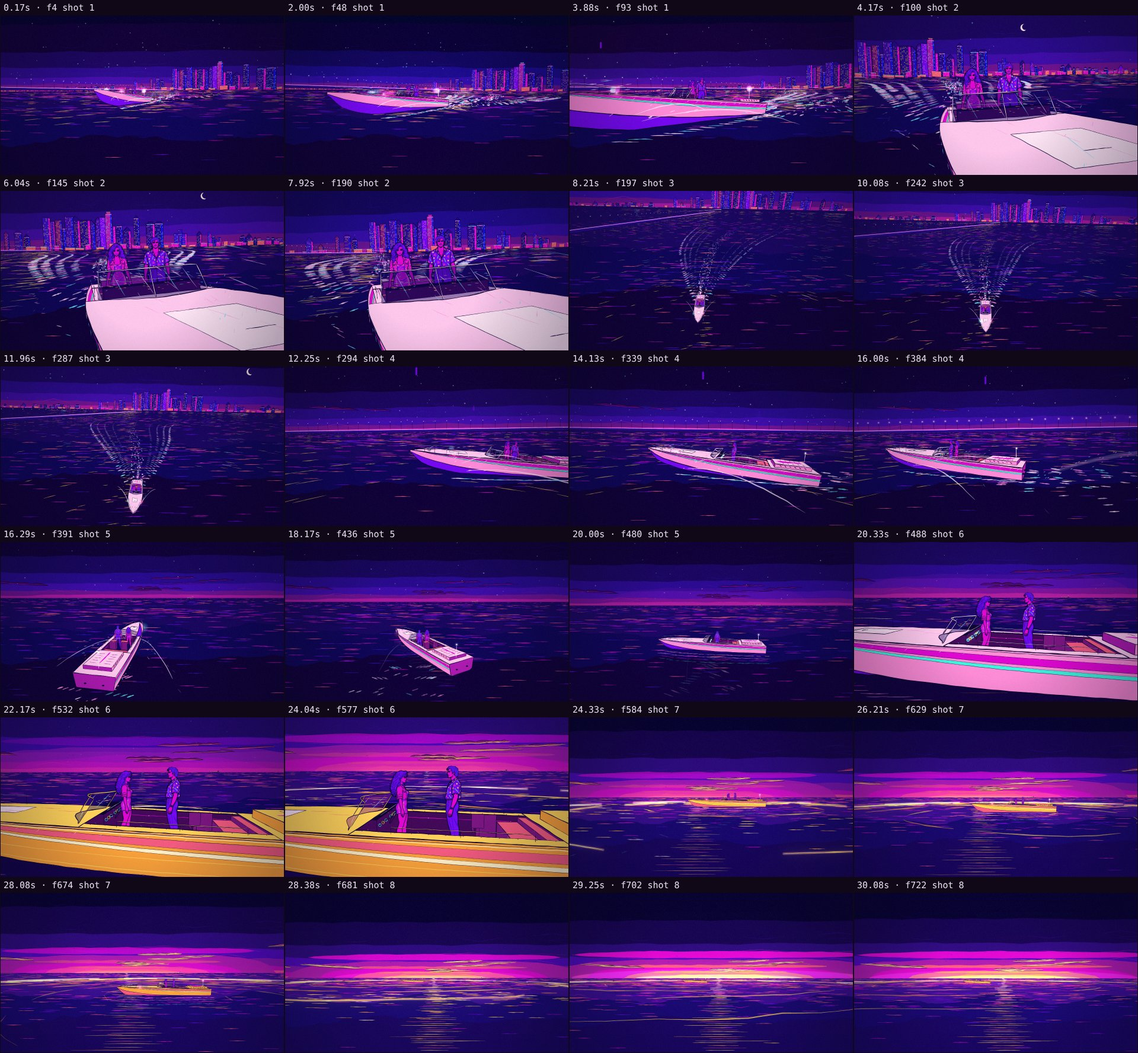
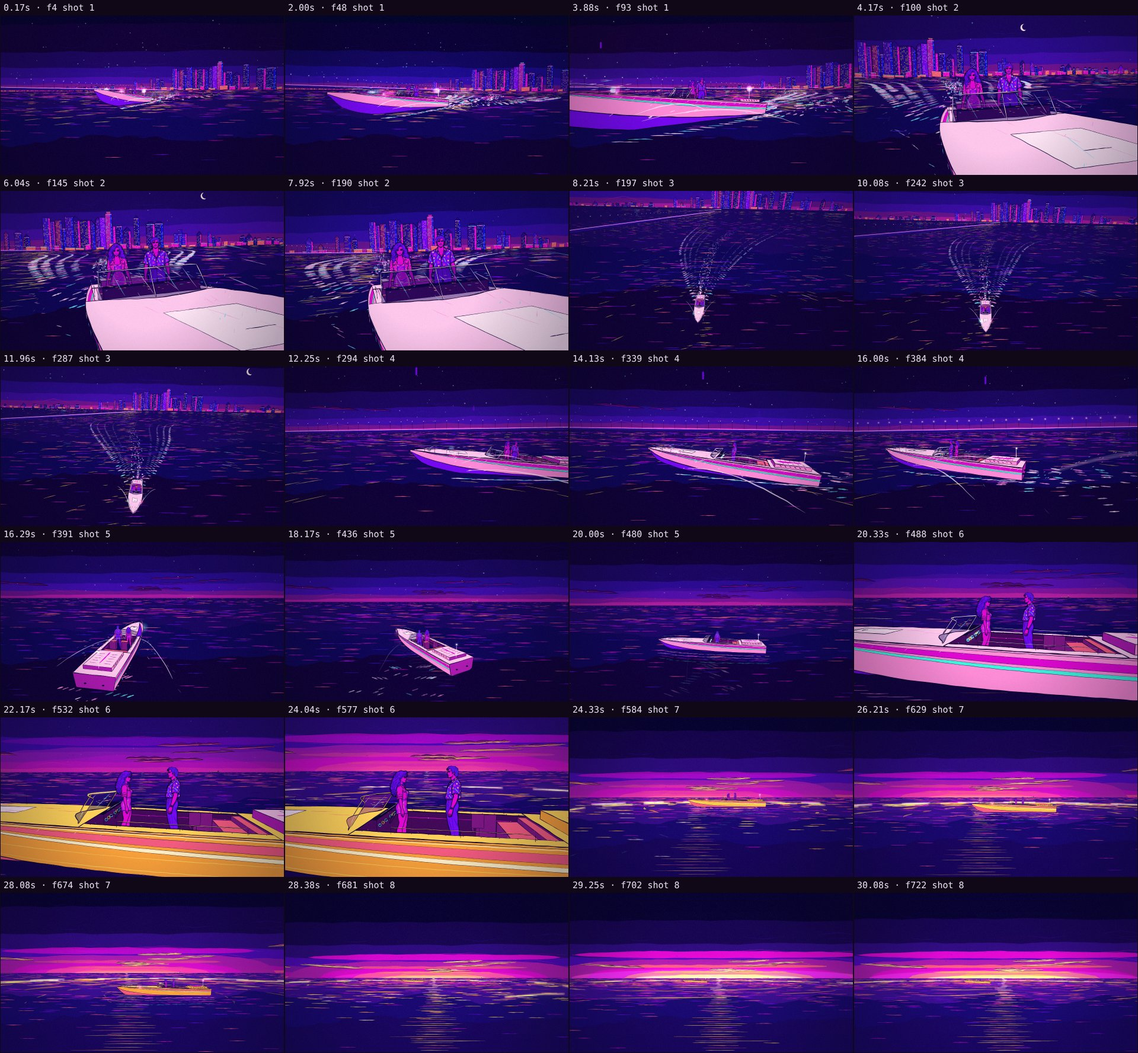
review(run-away-with-me): round 6 · opening and boat, second pass: wet street, Deco detail, a softer crowd; the windscreen, gold as ink, a banded dawn
Claude-Session: https://claude.ai/code/session_01UB8EogEzhgXRwMq5QwM1xL

diff --git a/sandbox/2026-11-24-run-away-with-me/set/clouds-city.js b/sandbox/2026-11-24-run-away-with-me/set/clouds-city.js
@@ -44,7 +44,12 @@ const CloudsCity = (() => {
         const zs = [[LAND.z0, STREETS[0][0]]]; for (let i = 0; i + 1 < STREETS.length; i++) zs.push([STREETS[i][1], STREETS[i + 1][0]]); zs.push([STREETS[STREETS.length - 1][1], LAND.z1]);
         const pads = []; for (const [xa, xb] of xs) for (const [za, zb] of zs) pads.push({ xa, xb, za, zb });
         let ni = 0;
-        const add = (b) => { b.seed = B.length * 7 + 11; b.lit = 0.25 + 0.3 * H(b.seed, 1, 0); B.push(b); return b; };
+        const add = (b) => {
+            b.seed = B.length * 7 + 11; b.lit = 0.25 + 0.3 * H(b.seed, 1, 0);
+            b.v = b.seed % 4; b.style = b.kind === 'deco' || H(b.seed, 2, 0) < 0.45 ? 'deco' : 'plain'; b.uOff = (b.seed % 5) * 3.4;
+            if (b.kind !== 'diner' && b.kind !== 'laundry' && b.kind !== 'step') { const r = H(b.seed, 3, 0); b.tank = r < 0.22; b.antenna = r > 0.85; b.roofSign = H(b.seed, 8, 0) < (b.kind === 'tower' ? 0.3 : 0.05) ? Math.floor(H(b.seed, 9, 0) * 3) : -1; }
+            B.push(b); return b;
+        };
         for (const p of pads) {
             if (p.xb === -6) {
                 // the Ocean Drive block: one row of hotels fronting the park, pools in the yards
@@ -85,6 +90,8 @@ const CloudsCity = (() => {
                     const ix = 0.8 + R() * 2, iz = 0.5 + R() * 1.5;
                     const b = add({ x0: ra + ix, x1: rb - ix, z0: z0 + iz, z1: z1 - iz - (yard ? 9 : 0), h: tower ? 28 + R() * 45 : 6 + R() * 8, kind: tower ? 'tower' : 'block', wall: WALL[Math.floor(R() * WALL.length)], roof: ROOF[Math.floor(R() * ROOF.length)] });
                     if (b.z1 - b.z0 < 5) { b.z1 = z1 - iz; }
+                    // a stepped top (an Art Deco set-back) on a quarter of the low blocks
+                    if (!tower && b.h > 8 && R() < 0.28) { const wx = (b.x1 - b.x0) * 0.25, wz = (b.z1 - b.z0) * 0.25; add({ x0: b.x0 + wx, x1: b.x1 - wx, z0: b.z0 + wz, z1: b.z1 - wz, base: b.h, h: b.h + 2.4 + R() * 2, kind: 'step', wall: b.wall, roof: b.roof }); b.stepped = true; }
                     if (R() < 0.22) b.tube = TUBE[Math.floor(R() * TUBE.length)];
                     if (tower && R() < 0.5) pools.push({ x0: b.x0 + 3, x1: Math.min(b.x1 - 3, b.x0 + 14), z0: b.z0 + 3, z1: Math.min(b.z1 - 3, b.z0 + 9), y: b.h + 0.05, seed: b.seed });
                     if (yard) { pools.push({ x0: b.x0 + 2, x1: Math.min(b.x1 - 2, b.x0 + 12), z0: b.z1 + 2, z1: b.z1 + 7, seed: b.seed }); palms.push({ x: b.x1 - 2, z: b.z1 + 4.5, seed: b.seed }); }
@@ -95,7 +102,20 @@ const CloudsCity = (() => {
         // Washington's sidewalks
         for (let z = LAND.z0 + 20; z < LAND.z1 - 20; z += 13) { palms.push({ x: 11.5 + (R() - 0.5) * 0.8, z: z + (R() - 0.5) * 3, seed: Math.round(z * 3) }); if (R() < 0.7) palms.push({ x: 20 + R() * 40, z: z + R() * 10, seed: Math.round(z * 5) + 1 }); }
         for (const [c, w] of [[-75, 16], [-185, 18]]) for (let z = LAND.z0 + 15; z < LAND.z1; z += 22) for (const sd of [-1, 1]) { const zz = z + (sd > 0 ? 11 : 0); if (STREETS.some(([a, b]) => zz > a - 4 && zz < b + 4)) continue; if (c === -185 && sd < 0 && zz > SHOPS.diner[0] - 6 && zz < SHOPS.laundry[1] + 6) continue; palms.push({ x: c + sd * (w / 2 + 1.6), z: zz, seed: Math.round(zz * 7 + c) }); }
-        PLAN = { B, palms, pools, parked, pads };
+        // the hotel north of theirs stays low (the view from their roof)
+        for (const b of B) if (b.kind === 'deco' && b.z0 > HOTEL.z1 - 1 && b.z0 < HOTEL.z1 + 40) b.h = Math.min(b.h, 10.5);
+        // cars parked along the park-side kerb, away from where the camera follows theirs
+        for (let z = LAND.z0 + 10; z < LAND.z1 - 10; z += 7 + R() * 5) if ((z < 120 || z > 275) && R() < 0.45) parked.push({ x: 4.75, z, dir: 1, col: [P.violet, P.royal, P.plum, P.indigo][Math.floor(R() * 4)] });
+        // a car at the kerb outside the laundromat
+        parked.push({ x: -192.4, z: 141, dir: 1, col: P.royal });
+        // people walking: Ocean Drive's two sidewalks, the park's walkway, Washington Avenue
+        const walkers = [];
+        for (let i = 0; i < 60; i++) {
+            const side = R(), x = side < 0.4 ? -8.2 + R() * 1.2 : side < 0.75 ? 6.9 + R() * 1.2 : 36 + R() * 4, z0 = -150 + R() * 650;
+            walkers.push({ x, z0, dir: R() < 0.5 ? 1 : -1, v: 1.1 + R() * 0.5, seed: 300 + i * 7, shirt: ['#3a0c70', '#5a1060', '#2a1a80', '#4a0a50', '#1e0a5a'][i % 5], rim: i % 3 ? P.cyan : P.pink, walk: side >= 0.75 });
+        }
+        for (let i = 0; i < 14; i++) walkers.push({ x: R() < 0.5 ? -195.6 : -174.8, z0: 80 + R() * 90, dir: R() < 0.5 ? 1 : -1, v: 1.0 + R() * 0.4, seed: 900 + i * 7, shirt: ['#3a0c70', '#5a1060', '#2a1a80'][i % 3], rim: i % 2 ? P.pink : P.cyan });
+        PLAN = { B, palms, pools, parked, pads, walkers };
         return PLAN;
     }
 
@@ -275,21 +295,31 @@ const CloudsCity = (() => {
 
     // --- the buildings -------------------------------------------------------------------------------
     function building(g, L, cam, b, T, d, fx, env) {
-        const { x0, x1, z0, z1, h } = b, c = cam.pos;
-        const s = cam.f / Math.max(1, dist(cam, (x0 + x1) / 2, h / 2, (z0 + z1) / 2));
+        const { x0, x1, z0, z1, h } = b, c = cam.pos, y0 = b.base ?? 0;
+        const s = cam.f / Math.max(1, dist(cam, (x0 + x1) / 2, (y0 + h) / 2, (z0 + z1) / 2));
         const fine = s > 2.2, jit = fine ? 0.5 : 0, w = fine ? lw(s, 0.035) : 0;
         const walls = [];
-        if (c[0] < x0) walls.push(['W', [[x0, 0, z1], [x0, 0, z0], [x0, h, z0], [x0, h, z1]], 0.55]);
-        if (c[0] > x1) walls.push(['E', [[x1, 0, z0], [x1, 0, z1], [x1, h, z1], [x1, h, z0]], 0.9]);
-        if (c[2] < z0) walls.push(['S', [[x0, 0, z0], [x1, 0, z0], [x1, h, z0], [x0, h, z0]], 0.75]);
-        if (c[2] > z1) walls.push(['N', [[x1, 0, z1], [x0, 0, z1], [x0, h, z1], [x1, h, z1]], 0.65]);
+        if (c[0] < x0) walls.push(['W', [[x0, y0, z1], [x0, y0, z0], [x0, h, z0], [x0, h, z1]], 0.55]);
+        if (c[0] > x1) walls.push(['E', [[x1, y0, z0], [x1, y0, z1], [x1, h, z1], [x1, h, z0]], 0.9]);
+        if (c[2] < z0) walls.push(['S', [[x0, y0, z0], [x1, y0, z0], [x1, h, z0], [x0, h, z0]], 0.75]);
+        if (c[2] > z1) walls.push(['N', [[x1, y0, z1], [x0, y0, z1], [x0, h, z1], [x1, h, z1]], 0.65]);
         for (const [face, pts, k] of walls) {
             const q = quad(cam, pts); if (!q) continue;
             const front = face === 'E' && (b.kind === 'deco' || b.kind === 'diner' || b.kind === 'laundry');
             const col = front ? b.wall : css(mix(b.wall, '#04022e', 1 - k));
-            Ink.shape(g, q, col, { w, seed: b.seed * 5 + face.charCodeAt(0), d, jit });
-            if (front && s > 5) facade(g, L, cam, b, T, d, fx, s);
-            else windows(g, L, cam, b, face, pts, s, d, fx);
+            const seed = b.seed * 5 + face.charCodeAt(0);
+            if (front && s > 5) { Ink.shape(g, q, col, { w, seed, d, jit }); facade(g, L, cam, b, T, d, fx, s); }
+            else {
+                // a far wall: its windows and texture from the cached patterns, laid through the camera
+                const wm = (pts[0][0] + pts[2][0]) / 2, wz = (pts[0][2] + pts[2][2]) / 2, ws = cam.f / Math.max(1, dist(cam, wm, (y0 + h) / 2, wz));
+                const A = cam.p(pts[0]), D = cam.p(pts[3]), C3 = cam.p(pts[2]), B1 = cam.p(pts[1]);
+                const len = Math.hypot(pts[1][0] - pts[0][0], pts[1][2] - pts[0][2]);
+                if (ws < 9 && A[2] > 2 && D[2] > 2 && C3[2] > 2 && B1[2] > 2) {
+                    Ink.shape(g, q, col, { w: 0, seed, d, jit: 0 });
+                    if (ws > 0.5) CloudsLife.wall(g, L, q, [A[0], A[1]], [D[0], D[1]], [C3[0], C3[1]], len, h - y0, b.v, b.style, b.uOff + (face === 'N' || face === 'W' ? 6.8 : 0), ws);
+                    if (w) Ink.brush(g, q, { w, seed, d, closed: true });
+                } else { Ink.shape(g, q, col, { w, seed, d, jit }); windows(g, L, cam, b, face, pts, s, d, fx); }
+            }
             // the light the street throws on the wall's foot: strokes of the lamps' gold
             if (s > 6 && !front) { const A = cam.p(pts[0]), B = cam.p(pts[1]); Ink.hatch(g, [A[0], A[1]], [B[0], B[1]], { count: 4, len: cap(0.6 * s, 4, 30), w: cap(0.05 * s, 1, 3), col: face === 'E' ? P.pink : P.salmon, seed: b.seed + face.charCodeAt(0), d, n: [0, -1], ang: 0.3 }); }
         }
@@ -322,16 +352,25 @@ const CloudsCity = (() => {
         const [p0, p1] = pts, len = Math.hypot(p1[0] - p0[0], p1[2] - p0[2]); if (len < 3) return;
         const ux = (p1[0] - p0[0]) / len, uz = (p1[2] - p0[2]) / len, off = 0.04;
         const nx = face === 'E' ? off : face === 'W' ? -off : 0, nz = face === 'N' ? off : face === 'S' ? -off : 0;
-        const floors = Math.max(1, Math.floor((b.h - 0.8) / 3.2)), cols = Math.max(1, Math.floor(len / 3.4)), cw = len / cols;
+        const y0 = b.base ?? 0, floors = Math.max(1, Math.floor((b.h - y0 - 0.8) / 3.2)), cols = Math.max(1, Math.floor(len / 3.4)), cw = len / cols;
+        const k0 = Math.round((b.uOff + (face === 'N' || face === 'W' ? 6.8 : 0)) / 3.4);
         for (let f = 0; f < floors; f++) for (let k = 0; k < cols; k++) {
-            const r = H(b.seed, f * 37 + k + face.charCodeAt(0) * 131, 0), lit = r < b.lit;
+            const pn = CloudsLife.pane(b.v, (k + k0) % 16, f + Math.round(y0 / 3.2)), lit = pn.lit;
             if (!lit && s < 5) continue;
-            const ya = f * 3.2 + 1.1, yb = ya + 1.4, ua = k * cw + cw * 0.22, ub = ua + cw * 0.56;
+            const ya = y0 + f * 3.2 + 1.1, yb = ya + 1.4, ua = k * cw + cw * 0.22, ub = ua + cw * 0.56;
             const P4 = [[p0[0] + ux * ua + nx, ya, p0[2] + uz * ua + nz], [p0[0] + ux * ub + nx, ya, p0[2] + uz * ub + nz], [p0[0] + ux * ub + nx, yb, p0[2] + uz * ub + nz], [p0[0] + ux * ua + nx, yb, p0[2] + uz * ua + nz]];
             const q = quad(cam, P4); if (!q) continue;
-            const col = lit ? WARM[Math.floor(H(b.seed, f * 7 + k, 5) * WARM.length)] : '#120540';
+            const col = lit ? pn.col : '#120540';
             Ink.shape(g, q, col, { w: s > 14 ? lw(s, 0.02) : 0, seed: b.seed * 31 + f * 7 + k, d, jit: s > 14 ? 0.4 : 0, light: lit });
-            if (lit && s > 2) { L.save(); L.globalAlpha = 0.45; L.fillStyle = col; Neon.path(L, q); L.fill(); L.restore(); }
+            // a TV's blue flickers on the light layer, drawing by drawing
+            if (lit && s > 2) { L.save(); L.globalAlpha = pn.kind === 'tv' ? 0.25 + 0.5 * H(b.seed + k, f, d) : 0.45; L.fillStyle = col; Neon.path(L, q); L.fill(); L.restore(); }
+            if (lit && s > 9) {
+                const at = (u, v) => { const uu = ua + (ub - ua) * u, yy = ya + (yb - ya) * v; return cam.p([p0[0] + ux * uu + nx * 1.5, yy, p0[2] + uz * uu + nz * 1.5]); };
+                if (pn.kind === 'blinds') for (let j = 1; j < 5; j++) { const A = at(0, j / 5), Bb = at(1, j / 5); Ink.brush(g, [[A[0], A[1]], [Bb[0], Bb[1]]], { w: cap(0.04 * s, 1, 2.5), col: css(mix(col, '#2a0a50', 0.55)), seed: b.seed + f * 50 + k * 5 + j, d, taper: 0.1, wob: 0.3, light: true }); }
+                if (pn.kind === 'curtains') for (const [u0, u1] of [[0, 0.3], [0.7, 1]]) { const qq = [at(u0, 0), at(u1, 0), at(u1, 1), at(u0, 1)].map((p) => [p[0], p[1]]); Ink.shape(g, qq, (k + f) % 2 ? P.red : P.magenta, { w: lw(s, 0.015), seed: b.seed + f * 9 + k, d, jit: 0.3 }); }
+                if (pn.kind === 'figure') { const hc = at(0.5, 0.62), sh = at(0.5, 0.3), r = 0.17 * s; const hp = []; for (let i = 0; i < 9; i++) { const an = i / 9 * Math.PI * 2; hp.push([hc[0] + Math.cos(an) * r, hc[1] + Math.sin(an) * r * 1.15]); } Ink.shape(g, hp, '#2a0a50', { w: 0, seed: b.seed + f + k * 3, d, jit: 0.2 }); const bl = at(0.25, 0), br = at(0.75, 0); Ink.shape(g, [[bl[0], bl[1]], [sh[0] - r * 1.4, sh[1]], [sh[0] + r * 1.4, sh[1]], [br[0], br[1]]], '#2a0a50', { w: 0, seed: b.seed + f + k * 5, d, jit: 0.2 }); }
+                if (pn.kind === 'tv') { const qq = [at(0.3, 0.2), at(0.7, 0.2), at(0.7, 0.5), at(0.3, 0.5)].map((p) => [p[0], p[1]]); Ink.shape(g, qq, '#c8ecff', { w: 0, seed: b.seed + k, d, jit: 0.2, light: true }); }
+            }
             if (!lit && s > 14) { const A = cam.p(P4[3]), B = cam.p(P4[2]); Ink.brush(g, [[A[0], A[1] + 2], [B[0], B[1] + 2]], { w: cap(0.04 * s, 1, 2.5), col: P.violet, seed: b.seed + f * 3 + k, d, taper: 0.4, light: true }); }
         }
     }
@@ -348,10 +387,45 @@ const CloudsCity = (() => {
             const sideS = cam.pos[2] < cz - r ? quad(cam, [[cx - r, h, cz - r], [cx + r, h, cz - r], [cx + r, h + hh, cz - r], [cx - r, h + hh, cz - r]]) : null;
             const sideE = cam.pos[0] > cx + r ? quad(cam, [[cx + r, h, cz - r], [cx + r, h, cz + r], [cx + r, h + hh, cz + r], [cx + r, h + hh, cz - r]]) : null;
             const sideW = cam.pos[0] < cx - r ? quad(cam, [[cx - r, h, cz + r], [cx - r, h, cz - r], [cx - r, h + hh, cz - r], [cx - r, h + hh, cz + r]]) : null;
-            for (const q of [sideS, sideE, sideW]) if (q) Ink.shape(g, q, '#2a0c6e', { w: s > 3 ? lw(s, 0.04) : 0, seed: b.seed + i * 3, d, jit: 0.3 });
-            if (top) Ink.shape(g, top, '#5a2aa8', { w: s > 3 ? lw(s, 0.04) : 0, seed: b.seed + i * 3 + 1, d, jit: 0.3 });
+            if (s > 2.5) for (const q of [sideS, sideE, sideW]) if (q) Ink.shape(g, q, '#2a0c6e', { w: s > 3 ? lw(s, 0.04) : 0, seed: b.seed + i * 3, d, jit: 0.3 });
+            if (top) Ink.shape(g, top, '#5a2aa8', { w: s > 3 ? lw(s, 0.04) : 0, seed: b.seed + i * 3 + 1, d, jit: s > 3 ? 0.3 : 0 });
+            if (top && s > 4) { const cc = cam.p([cx, h + hh + 0.02, cz]), rr = r * 0.6 * cam.f / cc[2], an = T * 9 + i; Ink.brush(g, [[cc[0] - Math.cos(an) * rr, cc[1] - Math.sin(an) * rr * 0.6], [cc[0] + Math.cos(an) * rr, cc[1] + Math.sin(an) * rr * 0.6]], { w: cap(0.1 * s, 1, 4), seed: b.seed + i * 7, d, taper: 0.2 }); }
         }
+        // a water tank on legs
+        if (b.tank && !b.ours) tank(g, cam, x0 + 3, z1 - 3, h, 1.5, 2.4, b.seed, d, s);
+        // an antenna with its red light, blinking on the beat
+        if (b.antenna) { const a = cam.p([x1 - 2, h, z0 + 2]), t = cam.p([x1 - 2, h + 6, z0 + 2]); if (a[2] > 1) { Ink.brush(g, [[a[0], a[1]], [t[0], t[1]]], { w: cap(0.06 * s, 0.8, 3), seed: b.seed + 33, d, taper: 0.1 }); if (Math.floor(Song.beatAt(T) * 2) % 2 === 0) dot(g, L, t[0], t[1], cap(0.25 * s, 1, 4), P.red, 1); } }
+        // a lit sign standing on the roof: a cocktail glass, a palm or a star in neon tubes
+        if (b.roofSign >= 0) roofSign(g, L, cam, b, s, d, fx);
         for (const pool of build().pools) if (pool.y && pool.seed === b.seed) poolDraw(g, L, cam, pool, pool.y, d, { W: cam.W, H: cam.H });
+    }
+
+    function tank(g, cam, x, z, h, r, th, seed, d, s) {
+        const b0 = cam.p([x, h + 1.4, z]), t0 = cam.p([x, h + 1.4 + th, z]); if (b0[2] < 2) return;
+        const k = cam.f / b0[2], rw = r * k, el = cap((cam.pos[1] - h - 2) / Math.max(1, b0[2]), 0, 1);
+        if (s > 3) for (const dx of [-0.8, 0.8]) { const a = cam.p([x + dx, h, z + 0.6]), bb = cam.p([x + dx, h + 1.4, z + 0.6]); Ink.brush(g, [[a[0], a[1]], [bb[0], bb[1]]], { w: cap(0.08 * k, 1, 4), seed: seed + dx * 10, d, taper: 0.1 }); }
+        Ink.shape(g, [[b0[0] - rw, b0[1]], [t0[0] - rw, t0[1]], [t0[0] + rw, t0[1]], [b0[0] + rw, b0[1]]], '#4a1a8a', { w: s > 3 ? lw(k, 0.04) : 0, seed: seed + 41, d, jit: 0.3 });
+        const ry = rw * (0.15 + 0.85 * el), cap0 = []; for (let i = 0; i < 14; i++) { const an = i / 14 * Math.PI * 2; cap0.push([t0[0] + Math.cos(an) * rw, t0[1] + Math.sin(an) * ry]); }
+        Ink.shape(g, cap0, '#6a3ab0', { w: s > 3 ? lw(k, 0.04) : 0, seed: seed + 42, d, jit: 0.3 });
+        if (s > 3) for (const v of [0.3, 0.65]) { const yy = b0[1] + (t0[1] - b0[1]) * v; Ink.brush(g, [[b0[0] - rw, yy], [b0[0], yy + ry * 0.4], [b0[0] + rw, yy]], { w: cap(0.04 * k, 0.8, 2.5), seed: seed + v * 100, d, taper: 0.1 }); }
+        if (s > 3) Ink.brush(g, [[b0[0] + rw * 0.6, b0[1] - 2], [t0[0] + rw * 0.6, t0[1] + 2]], { w: cap(0.06 * k, 1, 3), col: P.pink, seed: seed + 43, d, taper: 0.3 });
+    }
+    const PICTO = [
+        [[[-0.5, 0.95], [0.5, 0.95], [0, 0.45], [-0.5, 0.95]], [[0, 0.45], [0, 0.15]], [[-0.28, 0.1], [0.28, 0.1]], [[0.18, 0.8], [0.32, 0.72], [0.22, 0.62], [0.12, 0.7], [0.18, 0.8]]],
+        [[[0.05, 0.08], [0.0, 0.4], [-0.08, 0.78]], [[-0.08, 0.78], [-0.5, 0.62]], [[-0.08, 0.78], [0.42, 0.7]], [[-0.08, 0.78], [-0.3, 0.98]], [[-0.08, 0.78], [0.25, 0.95]]],
+        [[[0, 0.98], [0.12, 0.62], [0.48, 0.6], [0.2, 0.4], [0.3, 0.05], [0, 0.26], [-0.3, 0.05], [-0.2, 0.4], [-0.48, 0.6], [-0.12, 0.62], [0, 0.98]]],
+    ];
+    function roofSign(g, L, cam, b, s, d, fx) {
+        const { x0, x1, z0, h } = b, xc = (x0 + x1) / 2, zf = z0 + 1.2, w = Math.min(8, (x1 - x0) * 0.6), hh = w * 0.55, y0 = h + 1.2;
+        if (cam.pos[2] > zf) return;
+        const q = quad(cam, [[xc - w / 2, y0, zf], [xc + w / 2, y0, zf], [xc + w / 2, y0 + hh, zf], [xc - w / 2, y0 + hh, zf]]); if (!q) return;
+        for (const dx of [-0.35, 0.35]) { const a = cam.p([xc + dx * w, h, zf + 0.3]), bb = cam.p([xc + dx * w, y0, zf]); Ink.brush(g, [[a[0], a[1]], [bb[0], bb[1]]], { w: cap(0.1 * s, 1, 4), seed: b.seed + dx * 10, d, taper: 0.1 }); }
+        Ink.shape(g, q, '#24083e', { w: s > 2 ? lw(s, 0.04) : 0, seed: b.seed + 51, d, jit: 0.3 });
+        const col = [P.cyan, P.pink, P.gold][b.roofSign], on = (fx.lampPower ?? 1);
+        for (const line of PICTO[b.roofSign]) for (let i = 0; i + 1 < line.length; i++) {
+            const P0 = line[i], P1 = line[i + 1];
+            tube(g, L, cam, [xc + P0[0] * w * 0.8, y0 + 0.1 + P0[1] * hh * 0.85, zf - 0.05], [xc + P1[0] * w * 0.8, y0 + 0.1 + P1[1] * hh * 0.85, zf - 0.05], col, 0.12 * on, s, b.seed + i, d, fx);
+        }
     }
 
     // an Art Deco hotel's front (and the diner's, the laundromat's): eyebrows over the windows,
@@ -435,18 +509,51 @@ const CloudsCity = (() => {
         tube(g, L, cam, P3(h - 0.15, z0 + 0.2, 0.05), P3(h - 0.15, z1 - 0.2, 0.05), P.cyan, 0.09, s, b.seed + 503, d, fx);
         const win = face([P3(0.65, wa), P3(0.65, wb), P3(2.75, wb), P3(2.75, wa)], P.orange, { light: true });
         if (win) { L.save(); L.globalAlpha = 0.5; L.fillStyle = P.orange; Neon.path(L, win); L.fill(); L.restore(); }
+        g.save(); if (win) { Neon.path(g, win); g.clip(); }           // the inside stays behind the glass
         // inside, on the window's plane: the back wall's warm top, a menu board, the counter, stools
         face([P3(1.9, wa + 0.05, 0.03), P3(1.9, wb - 0.05, 0.03), P3(2.7, wb - 0.05, 0.03), P3(2.7, wa + 0.05, 0.03)], P.gold, { w: 0, light: true });
         face([P3(2.0, wa + 3, 0.04), P3(2.0, wa + 7, 0.04), P3(2.55, wa + 7, 0.04), P3(2.55, wa + 3, 0.04)], '#2a0a50', { w: lw(s, 0.02) });
         for (let i = 0; i < 4; i++) { const A = cam.p(P3(2.42 - i * 0.12, wa + 3.3, 0.05)), B = cam.p(P3(2.42 - i * 0.12, wa + 6.2 - i * 0.5, 0.05)); Ink.brush(g, [[A[0], A[1]], [B[0], B[1]]], { w: cap(0.03 * s, 1, 2), col: P.cream, seed: b.seed + 300 + i, d, taper: 0.3, light: true }); }
-        face([P3(0.65, wa + 0.05, 0.04), P3(0.65, wb - 0.05, 0.04), P3(1.12, wb - 0.05, 0.04), P3(1.12, wa + 0.05, 0.04)], P.plum, { w: lw(s, 0.02) });
-        face([P3(1.12, wa + 0.05, 0.045), P3(1.12, wb - 0.05, 0.045), P3(1.2, wb - 0.05, 0.045), P3(1.2, wa + 0.05, 0.045)], P.cream, { w: 0, light: true });
+        const ce = wa + 10.4;                                  // the counter's end; booths beyond it
+        // the pass to the kitchen in the back wall, the cook behind it in a white cap
+        face([P3(1.35, wa + 7.6, 0.03), P3(1.35, wa + 9.8, 0.03), P3(1.88, wa + 9.8, 0.03), P3(1.88, wa + 7.6, 0.03)], '#b04a28', { w: lw(s, 0.02) });
+        { const hc = cam.p(P3(1.66, wa + 8.5, 0.035)), r = 0.12 * s, hp = []; for (let i = 0; i < 10; i++) { const an = i / 10 * Math.PI * 2; hp.push([hc[0] + Math.cos(an) * r, hc[1] + Math.sin(an) * r * 1.15]); }
+          const sh0 = cam.p(P3(1.36, wa + 8.15, 0.035)), sh1 = cam.p(P3(1.36, wa + 8.85, 0.035)), nk = cam.p(P3(1.5, wa + 8.5, 0.035));
+          Ink.shape(g, [[sh0[0], sh0[1]], [nk[0] - r * 1.6, nk[1]], [nk[0] + r * 1.6, nk[1]], [sh1[0], sh1[1]]], '#3a0a40', { w: 0, seed: b.seed + 610, d, jit: 0.3 });
+          Ink.shape(g, hp, '#3a0a40', { w: 0, seed: b.seed + 611, d, jit: 0.2 });
+          const ht = cam.p(P3(1.95, wa + 8.5, 0.036)); Ink.shape(g, [[hc[0] - r * 0.9, hc[1] - r * 0.7], [ht[0] - r * 1.2, ht[1]], [ht[0] + r * 1.2, ht[1]], [hc[0] + r * 0.9, hc[1] - r * 0.7]], P.cream, { w: lw(s, 0.015), seed: b.seed + 612, d, jit: 0.3, light: true });
+          const pl = cam.p(P3(1.38, wa + 9.3, 0.036)); Ink.brush(g, [[pl[0] - r * 1.5, pl[1]], [pl[0] + r * 1.5, pl[1]]], { w: cap(0.05 * s, 1, 3), col: P.cream, seed: b.seed + 613, d, taper: 0.2, light: true }); }
+        // the waitress behind the counter with the coffee pot, pouring towards a stool
+        { const ft = cam.p(P3(0, wa + 4.6, 0.035)), sw = cam.f / ft[2];
+          CloudsLife.walker(g, ft[0], ft[1], sw, 0, 0, P.pink, b.seed + 620, d, { col: '#3a0a40', shirt: '#5a1060', h: 1.66 });
+          const sh = cam.p(P3(1.38, wa + 4.75, 0.036)), hand = cam.p(P3(1.25, wa + 5.35, 0.036)), r = 0.11 * sw;
+          Ink.brush(g, [[sh[0], sh[1]], [hand[0], hand[1]]], { w: cap(0.07 * sw, 1, 6), col: '#3a0a40', seed: b.seed + 621, d, taper: 0.2 });
+          Ink.shape(g, [[hand[0] - r * 0.4, hand[1] - r], [hand[0] + r * 1.6, hand[1] - r], [hand[0] + r * 1.8, hand[1] + r * 1.2], [hand[0] - r * 0.2, hand[1] + r * 1.2]], '#2a0a30', { w: lw(sw, 0.015), seed: b.seed + 622, d, jit: 0.2 });
+          Ink.brush(g, [[hand[0] + r * 0.2, hand[1] - r * 0.5], [hand[0] + r * 0.4, hand[1] + r * 0.8]], { w: cap(0.03 * sw, 1, 2), col: P.cream, seed: b.seed + 623, d, taper: 0.3, light: true });
+          const pour = cam.p(P3(1.1, wa + 5.55, 0.036)); Ink.brush(g, [[hand[0] + r * 1.7, hand[1] + r * 1.1], [pour[0], pour[1]]], { w: cap(0.02 * sw, 1, 2), col: '#7a3a20', seed: b.seed + 624, d, taper: 0.1 }); }
+        // two customers in a booth by the window, facing each other over a table
+        for (const [zb, flip] of [[ce + 1.0, 1], [ce + 3.6, -1]]) {
+            face([P3(0.65, zb - 0.2, 0.034), P3(0.65, zb + 0.2, 0.034), P3(1.45, zb + 0.2, 0.034), P3(1.45, zb - 0.2, 0.034)], P.red, { w: lw(s, 0.02) });
+            const hc = cam.p(P3(1.38, zb + flip * 0.55, 0.035)), r = 0.12 * s, hp = []; for (let i = 0; i < 10; i++) { const an = i / 10 * Math.PI * 2; hp.push([hc[0] + Math.cos(an) * r, hc[1] + Math.sin(an) * r * 1.15]); }
+            const s0 = cam.p(P3(0.95, zb + flip * 0.3, 0.035)), s1 = cam.p(P3(0.95, zb + flip * 0.85, 0.035)), nk = cam.p(P3(1.2, zb + flip * 0.55, 0.035));
+            Ink.shape(g, [[s0[0], s0[1]], [nk[0] - r * 1.5, nk[1]], [nk[0] + r * 1.5, nk[1]], [s1[0], s1[1]]], flip > 0 ? '#2a1a60' : '#4a0a50', { w: 0, seed: b.seed + 630 + flip, d, jit: 0.3 });
+            Ink.shape(g, hp, '#2a0a40', { w: 0, seed: b.seed + 632 + flip, d, jit: 0.2 });
+            Ink.brush(g, [[hc[0] + flip * r * 0.6, hc[1] - r * 0.8], [hc[0] + flip * r * 1.0, hc[1] + r * 0.2]], { w: cap(0.025 * s, 1, 2.5), col: flip > 0 ? P.cyan : P.pink, seed: b.seed + 634 + flip, d, taper: 0.4 });
+        }
+        face([P3(0.92, ce + 1.75, 0.036), P3(0.92, ce + 2.85, 0.036), P3(1.0, ce + 2.85, 0.036), P3(1.0, ce + 1.75, 0.036)], P.cream, { w: lw(s, 0.015), light: true });
+        for (const zc of [ce + 2.0, ce + 2.55]) face([P3(1.0, zc, 0.037), P3(1.0, zc + 0.14, 0.037), P3(1.12, zc + 0.15, 0.037), P3(1.12, zc - 0.01, 0.037)], P.cream, { w: lw(s, 0.015) });
+        face([P3(0.65, wa + 0.05, 0.04), P3(0.65, ce, 0.04), P3(1.12, ce, 0.04), P3(1.12, wa + 0.05, 0.04)], P.plum, { w: lw(s, 0.02) });
+        face([P3(1.12, wa + 0.05, 0.045), P3(1.12, ce, 0.045), P3(1.2, ce, 0.045), P3(1.2, wa + 0.05, 0.045)], P.cream, { w: 0, light: true });
+        // the pie case on the counter: a glass box, wedges of pie on two shelves
+        face([P3(1.2, wa + 6.7, 0.046), P3(1.2, wa + 7.7, 0.046), P3(1.75, wa + 7.7, 0.046), P3(1.75, wa + 6.7, 0.046)], '#bfefff', { w: lw(s, 0.02), light: true });
+        for (const [yy, zz] of [[1.25, wa + 6.85], [1.25, wa + 7.25], [1.5, wa + 7.0]]) { const a = cam.p(P3(yy, zz, 0.047)), bq = cam.p(P3(yy, zz + 0.3, 0.047)), t = cam.p(P3(yy + 0.16, zz + 0.05, 0.047)); Ink.shape(g, [[a[0], a[1]], [bq[0], bq[1]], [t[0], t[1]]], [P.gold, P.salmon, P.orange][Math.round(zz * 3) % 3], { w: lw(s, 0.015), seed: b.seed + Math.round(zz * 31 + yy * 7), d, jit: 0.2 }); }
         // a coffee pot and cups on the counter, the steam rising
-        for (let i = 0; i < 3; i++) { const z = wa + 2 + i * 4.3, cup = face([P3(1.2, z, 0.05), P3(1.2, z + 0.22, 0.05), P3(1.42, z + 0.25, 0.05), P3(1.42, z - 0.03, 0.05)], P.cream, { w: lw(s, 0.02) }); const st = [0, 1, 2].map((j) => cam.p(P3(1.5 + j * 0.18, z + 0.1 + 0.06 * Math.sin(T * 3 + j * 1.3 + i), 0.05))); if (cup) Ink.brush(g, st.map((p) => [p[0], p[1]]), { w: cap(0.03 * s, 1, 2), col: P.pink, seed: b.seed + 400 + i, d, taper: 0.5, alpha: 0.8, light: true }); }
+        for (let i = 0; i < 2; i++) { const z = wa + 2 + i * 6.3, cup = face([P3(1.2, z, 0.05), P3(1.2, z + 0.22, 0.05), P3(1.42, z + 0.25, 0.05), P3(1.42, z - 0.03, 0.05)], P.cream, { w: lw(s, 0.02) }); const st = [0, 1, 2].map((j) => cam.p(P3(1.5 + j * 0.18, z + 0.1 + 0.06 * Math.sin(T * 3 + j * 1.3 + i), 0.05))); if (cup) Ink.brush(g, st.map((p) => [p[0], p[1]]), { w: cap(0.03 * s, 1, 2), col: P.pink, seed: b.seed + 400 + i, d, taper: 0.5, alpha: 0.8, light: true }); }
         // stools: red seats on chrome posts below the counter's lip
-        for (let z = wa + 1; z < wb - 0.5; z += 1.5) { const c0 = cam.p(P3(0.75, z, 0.06)), r = 0.28 * s; Ink.shape(g, [[c0[0] - r, c0[1]], [c0[0] - r * 0.85, c0[1] - r * 0.4], [c0[0] + r * 0.85, c0[1] - r * 0.4], [c0[0] + r, c0[1]], [c0[0] + r * 0.6, c0[1] + r * 0.25], [c0[0] - r * 0.6, c0[1] + r * 0.25]], P.red, { w: lw(s, 0.02), seed: b.seed + Math.round(z * 7), d, jit: 0.3 }); }
+        for (let z = wa + 1; z < ce - 0.3; z += 1.5) { const c0 = cam.p(P3(0.75, z, 0.06)), r = 0.28 * s; Ink.shape(g, [[c0[0] - r, c0[1]], [c0[0] - r * 0.85, c0[1] - r * 0.4], [c0[0] + r * 0.85, c0[1] - r * 0.4], [c0[0] + r, c0[1]], [c0[0] + r * 0.6, c0[1] + r * 0.25], [c0[0] - r * 0.6, c0[1] + r * 0.25]], P.red, { w: lw(s, 0.02), seed: b.seed + Math.round(z * 7), d, jit: 0.3 }); }
         // pendant lamps
         for (let z = wa + 1.5; z < wb - 0.5; z += 3) { const top = cam.p(P3(2.75, z, 0.05)), lo = cam.p(P3(2.2, z, 0.05)); Ink.brush(g, [[top[0], top[1]], [lo[0], lo[1]]], { w: cap(0.02 * s, 1, 2), seed: b.seed + Math.round(z * 9), d, taper: 0 }); const r = 0.22 * s; Ink.shape(g, [[lo[0] - r, lo[1] + r * 0.6], [lo[0] - r * 0.4, lo[1]], [lo[0] + r * 0.4, lo[1]], [lo[0] + r, lo[1] + r * 0.6]], P.gold, { w: lw(s, 0.02), seed: b.seed + Math.round(z * 11), d, jit: 0.3, light: true }); dot(null, L, lo[0], lo[1] + r * 0.6, r * 0.8, P.gold, 0.8); }
+        g.restore();
         // mullions and the door
         for (let z = wa; z <= wb + 0.01; z += (wb - wa) / 6) { const A = cam.p(P3(0.65, z, 0.08)), B = cam.p(P3(2.75, z, 0.08)); Ink.brush(g, [[A[0], A[1]], [B[0], B[1]]], { w: lw(s, 0.05), col: '#d8c8f8', seed: b.seed + Math.round(z * 5), d, taper: 0.02 }); }
         const door = face([P3(0.05, z1 - 3.4, 0.06), P3(0.05, z1 - 2.2, 0.06), P3(2.3, z1 - 2.2, 0.06), P3(2.3, z1 - 3.4, 0.06)], P.salmon, { light: true });
@@ -465,6 +572,7 @@ const CloudsCity = (() => {
         const { z0, z1, h } = b, wa = z0 + 0.8, wb = z1 - 0.8;
         const win = face([P3(0.5, wa), P3(0.5, wb), P3(3.2, wb), P3(3.2, wa)], '#8ff0ff', { light: true });
         if (win) { L.save(); L.globalAlpha = 0.35; L.fillStyle = P.cyan; Neon.path(L, win); L.fill(); L.restore(); }
+        g.save(); if (win) { Neon.path(g, win); g.clip(); }
         face([P3(2.5, wa + 0.05, 0.03), P3(2.5, wb - 0.05, 0.03), P3(3.15, wb - 0.05, 0.03), P3(3.15, wa + 0.05, 0.03)], P.cyan, { w: 0, light: true });
         const spin = Song.beatAt(T) * Math.PI * 0.5 + T * 5;
         for (const [ya, size] of [[0.55, 0.95], [1.65, 0.8]]) for (let z = wa + 0.3; z + size < wb - 0.2; z += size + 0.12) {
@@ -475,9 +583,17 @@ const CloudsCity = (() => {
             Ink.shape(g, drum, P.navy, { w: 0, seed: b.seed + Math.round(z * 17 + ya), d, jit: 0.2 });
             if (r > 4) for (let j = 0; j < 3; j++) { const an = spin * (ya < 1 ? 1 : -0.6) + j * 2.1 + z; Ink.brush(g, [[c0[0] + Math.cos(an) * r * 0.2, c0[1] + Math.sin(an) * r * 0.2], [c0[0] + Math.cos(an + 0.9) * r * 0.6, c0[1] + Math.sin(an + 0.9) * r * 0.6]], { w: cap(r * 0.22, 1, 5), col: [P.pink, P.gold, P.cyan][j], seed: b.seed + j + Math.round(z * 3), d, taper: 0.3, light: true }); }
         }
+        // somebody folding at the table in front of the machines, a basket at her feet
+        { const zf = wa + (wb - wa) * 0.62, ft = cam.p(P3(0, zf, 0.06)), sw = cam.f / ft[2];
+          face([P3(0.82, zf - 0.9, 0.055), P3(0.82, zf + 0.9, 0.055), P3(0.9, zf + 0.9, 0.055), P3(0.9, zf - 0.9, 0.055)], '#e8e0ff', { w: lw(s, 0.02) });
+          CloudsLife.walker(g, ft[0], ft[1], sw, 0.3, 0.2, P.cyan, b.seed + 700, d, { col: '#2a0a50', shirt: '#4a1a80', h: 1.62 });
+          const a = cam.p(P3(1.2, zf - 0.45, 0.062)), c2 = cam.p(P3(1.2, zf + 0.45, 0.062)), lo = cam.p(P3(0.92, zf + 0.5, 0.062)), lo0 = cam.p(P3(0.92, zf - 0.5, 0.062));
+          Ink.shape(g, [[a[0], a[1]], [c2[0], c2[1]], [lo[0], lo[1]], [lo0[0], lo0[1]]], P.pink, { w: lw(sw, 0.015), seed: b.seed + 701, d, jit: 0.4 });
+          const bk = cam.p(P3(0.0, zf - 1.3, 0.062)), bt = cam.p(P3(0.45, zf - 1.3, 0.062)), r = 0.3 * sw; Ink.shape(g, [[bk[0] - r, bk[1]], [bt[0] - r * 1.2, bt[1]], [bt[0] + r * 1.2, bt[1]], [bk[0] + r, bk[1]]], P.gold, { w: lw(sw, 0.02), seed: b.seed + 702, d, jit: 0.3 }); }
         // the clock at four
         const cc = cam.p(P3(2.85, wb - 1.2, 0.05)), cu = cam.p(P3(2.85, wb - 0.2, 0.05)), R = Math.abs(cu[0] - cc[0]) * 0.28;
         if (R > 3) { const pts = []; for (let i = 0; i < 20; i++) { const an = (i / 20) * Math.PI * 2; pts.push([cc[0] + Math.cos(an) * R, cc[1] + Math.sin(an) * R]); } Ink.shape(g, pts, P.cream, { w: lw(s, 0.025), seed: b.seed + 900, d, jit: 0.2 }); const hA = (4 / 12) * Math.PI * 2 - Math.PI / 2; Ink.brush(g, [[cc[0], cc[1]], [cc[0] + Math.cos(hA) * R * 0.55, cc[1] + Math.sin(hA) * R * 0.55]], { w: cap(R * 0.16, 1, 4), seed: b.seed + 901, d, taper: 0.2 }); Ink.brush(g, [[cc[0], cc[1]], [cc[0], cc[1] - R * 0.82]], { w: cap(R * 0.1, 1, 3), seed: b.seed + 902, d, taper: 0.2 }); }
+        g.restore();
         for (let z = wa; z <= wb + 0.01; z += (wb - wa) / 4) { const A = cam.p(P3(0.5, z, 0.08)), B = cam.p(P3(3.2, z, 0.08)); Ink.brush(g, [[A[0], A[1]], [B[0], B[1]]], { w: lw(s, 0.05), col: P.ink, seed: b.seed + Math.round(z * 5), d, taper: 0.02 }); }
         sign(g, L, cam, b.x1 + 0.1, 3.55, (z0 + z1) / 2, 'LAUNDROMAT', 0.62, P.aqua, z1 - z0 - 1.5, fx, 1);
     }
@@ -505,7 +621,7 @@ const CloudsCity = (() => {
             if (s > 6) Ink.brush(g, pts.map((p) => [p[0] - p[2] * 0.6, p[1]]), { w: cap(0.05 * s, 1, 4), col: P.cyan, seed: seed * 17, d, taper: 0.3 });
             if (s > 12) Ink.hatch(g, [pts[0][0] + pts[0][2] * 0.4, pts[0][1] - 4], [pts[6][0] + pts[6][2] * 0.4, pts[6][1]], { count: 4, len: cap(0.3 * s, 3, 26), w: cap(0.045 * s, 1, 4), col: P.salmon, seed: seed * 3, d, n: [1, 0], ang: 1.2 });
         }
-        const n = s > 4 ? 13 : 7, sway = Math.sin(T * 1.6 + seed) * 0.05, P0 = [x + lean, Hh, z + leanZ], fr = [];
+        const mid = s < 9, n = mid ? 8 : 13, sway = Math.sin(T * 1.6 + seed) * 0.05, P0 = [x + lean, Hh, z + leanZ], fr = [];
         for (let i = 0; i < n; i++) { const an = (i / n) * Math.PI * 2 + R() * 0.3; fr.push({ an, dx: Math.cos(an), dz: Math.sin(an), len: 3.2 + R() * 1.2, arch: 0.8 + R() * 0.6 }); }
         const toCam = [cam.pos[0] - P0[0], cam.pos[2] - P0[2]];
         fr.sort((a, b) => (a.dx * toCam[0] + a.dz * toCam[1]) - (b.dx * toCam[0] + b.dz * toCam[1]));
@@ -516,8 +632,8 @@ const CloudsCity = (() => {
             const width = (j) => 0.28 * Math.sin((j / 6) * Math.PI * 0.95 + 0.1) * cam.f / rib[j][2];
             const up = rib.map((p, j) => [p[0], p[1] - width(j) * 0.45]), dn = rib.map((p, j) => [p[0], p[1] + width(j) * 0.7]);
             const near = f.dx * toCam[0] + f.dz * toCam[1] > 0;
-            Ink.shape(g, up.concat(dn.reverse()), near ? P.plum : P.grape, { w: s > 6 ? lw(s, 0.05) : s > 2 ? 1 : 0, seed: seed * 101 + Math.round(f.an * 10), d, jit: s > 6 ? 0.5 : 0 });
-            if (s > 2.5) Ink.brush(g, rib.slice(1, 5).map((p, j) => [p[0], p[1] - width(j + 1) * 0.3]), { w: cap(0.04 * s, 0.8, 3.5), col: f.dx > 0 ? P.pink : P.cyan, seed: seed * 31 + Math.round(f.an * 10), d, taper: 0.4 });
+            Ink.shape(g, up.concat(dn.reverse()), near ? P.plum : P.grape, { w: mid ? 0 : lw(s, 0.05), seed: seed * 101 + Math.round(f.an * 10), d, jit: mid ? 0 : 0.5 });
+            if (!mid || near) Ink.brush(g, rib.slice(1, 5).map((p, j) => [p[0], p[1] - width(j + 1) * 0.3]), { w: cap(0.04 * s, 0.8, 3.5), col: f.dx > 0 ? P.pink : P.cyan, seed: seed * 31 + Math.round(f.an * 10), d, taper: 0.4 });
         }
     }
 
@@ -546,7 +662,7 @@ const CloudsCity = (() => {
         const at = (u, v, y = 0.7) => cam.p([t.x + ax * u + px * v, y, t.z + az * u + pz * v]);
         if (s > 1.4) {
             const body = [at(-2.15, -0.9, 0.9), at(2.15, -0.9, 0.9), at(2.15, 0.9, 0.9), at(-2.15, 0.9, 0.9)];
-            if (cam.pos[1] > 25) Ink.shape(g, body.map((p) => [p[0], p[1]]), t.col, { w: s > 4 ? lw(s, 0.06) : 0, seed: t.seed, d, jit: 0.3 });
+            if (cam.pos[1] > 25 || s < 5) Ink.shape(g, body.map((p) => [p[0], p[1]]), t.col, { w: s > 4 ? lw(s, 0.06) : 0, seed: t.seed, d, jit: s > 4 ? 0.3 : 0 });
             else boxCar(g, cam, t, s, d);
         }
         const r = cap(0.22 * s, 0.7, 6), trail = fx.trail ?? 0;

diff --git a/sandbox/2026-11-24-run-away-with-me/dev/boat/review/auto.md b/sandbox/2026-11-24-run-away-with-me/dev/boat/review/auto.md
@@ -11,7 +11,7 @@
 Energy per second (how much the image changes):
 
 ```
-▄▅▆█▆▆▆▆▇▅▆▅▆▆▆▅▅▅▅▄█▇▆▆█▄▅▄▆▆▇▇▇▄▃
+▄▅▆█▆▆▆▆▇▅▆▅▆▆▆▅▅▅▅▄█▇▆▆▇▄▄▄▅▅▇▇▇▄▃
 0    5    10   15   20   25   30   
 ```
 
@@ -19,7 +19,7 @@ No still stretches of 1 s or more.
 
 ## Speed
 
-Painting: 128 ms/frame cold, 90 ms warm → full render ≈ 74 s at this size.
+Painting: 102 ms/frame cold, 61 ms warm → full render ≈ 50 s at this size.
 
 ## Contact sheet
 

diff --git a/sandbox/2026-11-24-run-away-with-me/dev/opening/review/auto.md b/sandbox/2026-11-24-run-away-with-me/dev/opening/review/auto.md
@@ -21,7 +21,7 @@ Large jumps outside cuts (can be normal in dense patterns; check whether they bo
 
 ## Speed
 
-Painting: 151 ms/frame cold, 116 ms warm → full render ≈ 69 s at this size.
+Painting: 151 ms/frame cold, 104 ms warm → full render ≈ 62 s at this size.
 
 ## Contact sheet
 
